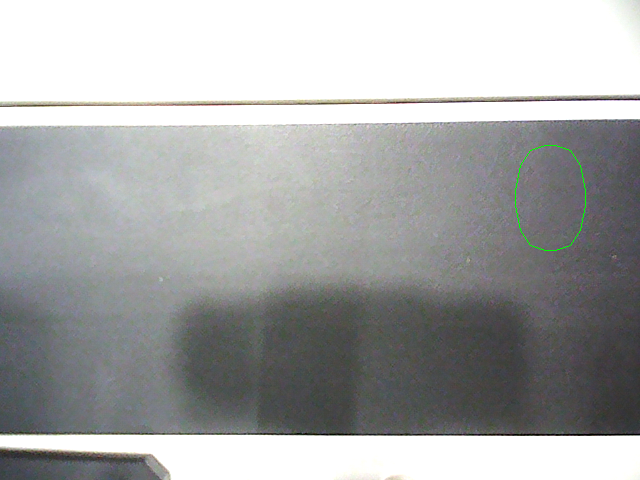
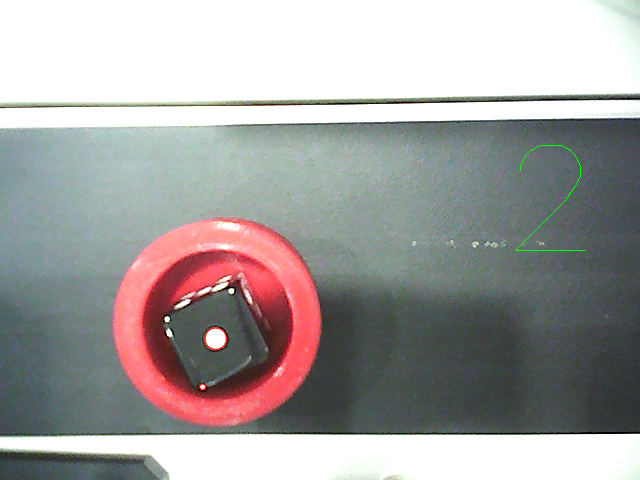
day7

diff --git a/hello/plc3.py b/hello/plc3.py
@@ -147,22 +147,22 @@ db = pymysql.connect(
 )
 
 
-# PORT = "COM8"
-# BaudRate = 9600
-# ARD = serial.Serial(PORT, BaudRate)
+PORT = "COM8"
+BaudRate = 9600
+ARD = serial.Serial(PORT, BaudRate)
 
 
-# def Decode(A):
-#     return int(A[0:3])
+def Decode(A):
+    return int(A[0:3])
 
 
-# def Ardread():
-#     if ARD.readable():
-#         code = Decode(ARD.readline())
-#         print(code)
-#         return code
-#     else:
-#         print("읽기 실패")
+def Ardread():
+    if ARD.readable():
+        code = Decode(ARD.readline())
+        print(code)
+        return code
+    else:
+        print("읽기 실패")
 
 
 def on_connect(client, userdata, flags, rc):
@@ -192,8 +192,10 @@ def on_message1(client, userdata, msg):
     global message
     global dice
     global trackflag
+    global radiation
+    radiation = 0
     data = msg.payload.decode("utf-8")
-    # Ardread()
+    cursor = db.cursor()
     # if Ardread() > 50:
     #     message = {"tagId": "11", "value": "0"}
     #     client.publish("edukit/control", json.dumps(message), qos=1)
@@ -207,38 +209,39 @@ def on_message1(client, userdata, msg):
         dataTime = datetime.strptime(
             data_dict["Wrapper"][40]["value"], "%Y-%m-%dT%H:%M:%S.%fZ"
         )
-        cursor = db.cursor()
         start_time = dataTime
         end_time = start_time + timedelta(seconds=25)
         sql = "INSERT INTO track (start, end) VALUES (%s, %s)"
         cursor.execute(sql, (start_time, end_time))
-        db.commit()
     if data_dict["Wrapper"][2]["value"] == False:
         trackflag = True
     predice = dice
     dice = dice_recognition()
-    # x = data_dict["Wrapper"][34]["value"]
-    # y = data_dict["Wrapper"][35]["value"]
     # 메시지를 JSON 형식으로 만듭니다.
     # dice = int(dice)
     # POST 요청에서 데이터 받아오기
     if dice > 0 and dice < 7 and dice != predice:
         print(dice)
+        radiation = Ardread()
+        stamp = datetime.strptime(
+            data_dict["Wrapper"][40]["value"], "%Y-%m-%dT%H:%M:%S.%fZ"
+        )
         # 데이터베이스에 데이터 삽입
-        cursor = db.cursor()
         sql = """INSERT INTO dice (num) VALUES (%s)"""
+        sqlradi = """INSERT INTO radiation (figure,created_at) VALUES (%s,%s)"""
         cursor.execute(sql, dice)
-        db.commit()  # 데이터베이스에 변경 사항을 반영합니다.
-    if dice >= 2 and dice <= 5:
+        cursor.execute(sqlradi, (radiation, stamp))
+    if dice >= 2 and dice <= 5 and radiation < 50:
         message = {"tagId": "11", "value": "1"}
         mflag = False
-    elif dice == 1 or dice == 6:
+    elif dice == 1 or dice == 6 or radiation >= 50:
         message = {"tagId": "11", "value": "0"}
         mflag = False
     # JSON 메시지를 문자열로 변환하여 발행합니다.
     if mflag == False:
         client.publish("edukit/control", json.dumps(message), qos=1)
         mflag = True
+    db.commit()
 
 
 def on_message2(client, userdata, msg):

diff --git a/hello/jupy.py b/hello/jupy.py
@@ -29,7 +29,7 @@ detector = cv2.SimpleBlobDetector_create(params)
 
 while True:
     ret, frame = cap.read()
-    print(cap.read())
+    # print(cap.read())
     frame_blurred = cv2.GaussianBlur(frame, Gaussian_ksize, 1)
     frame_gray = cv2.cvtColor(frame_blurred, cv2.COLOR_BGR2GRAY)
     frame_canny = cv2.Canny(
